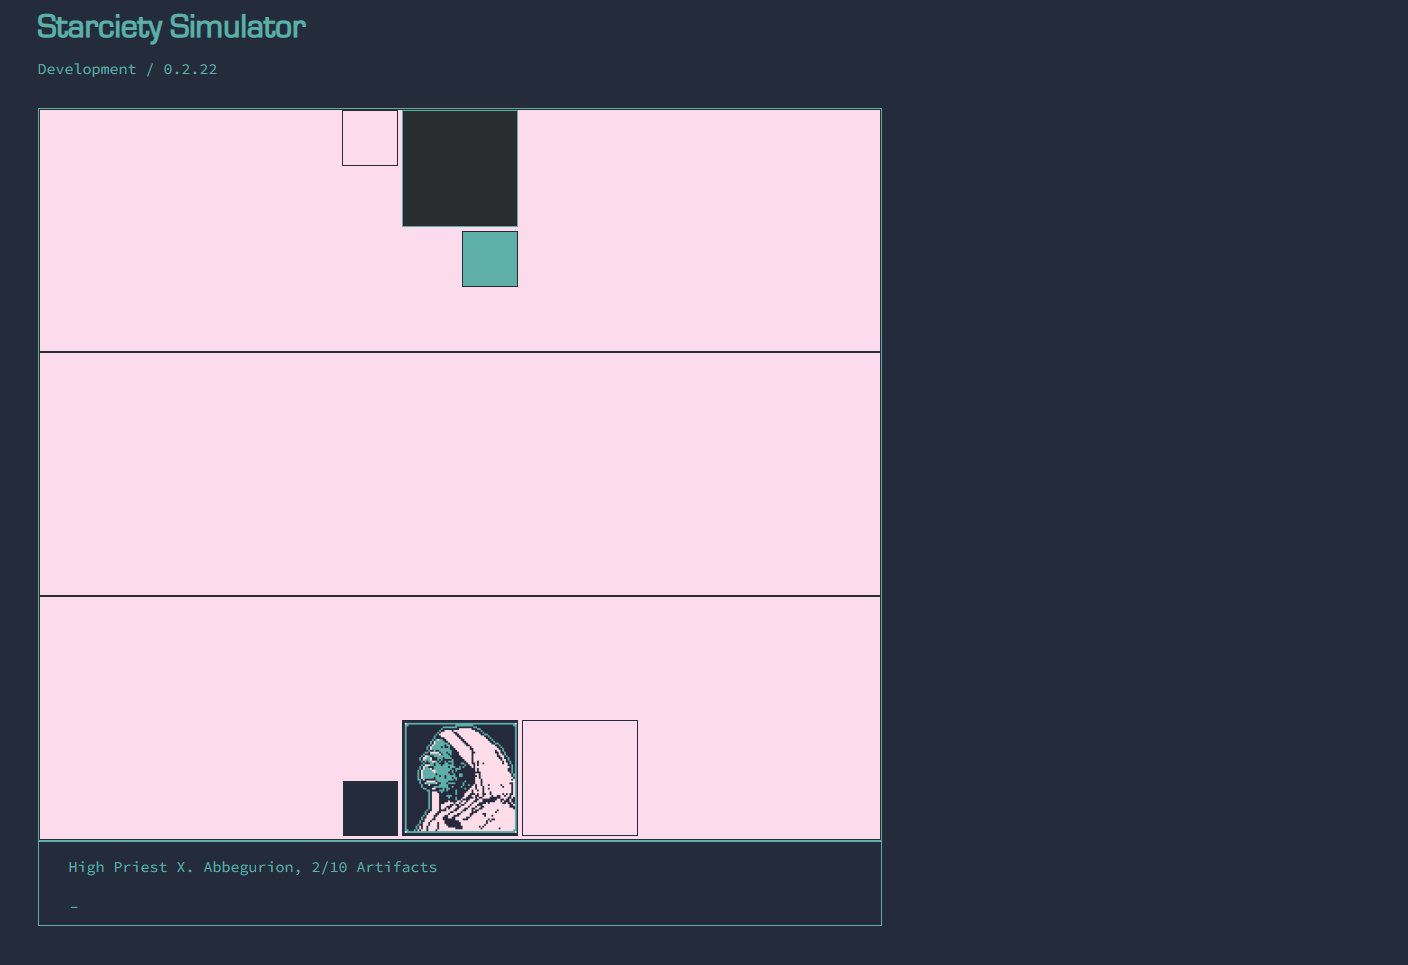
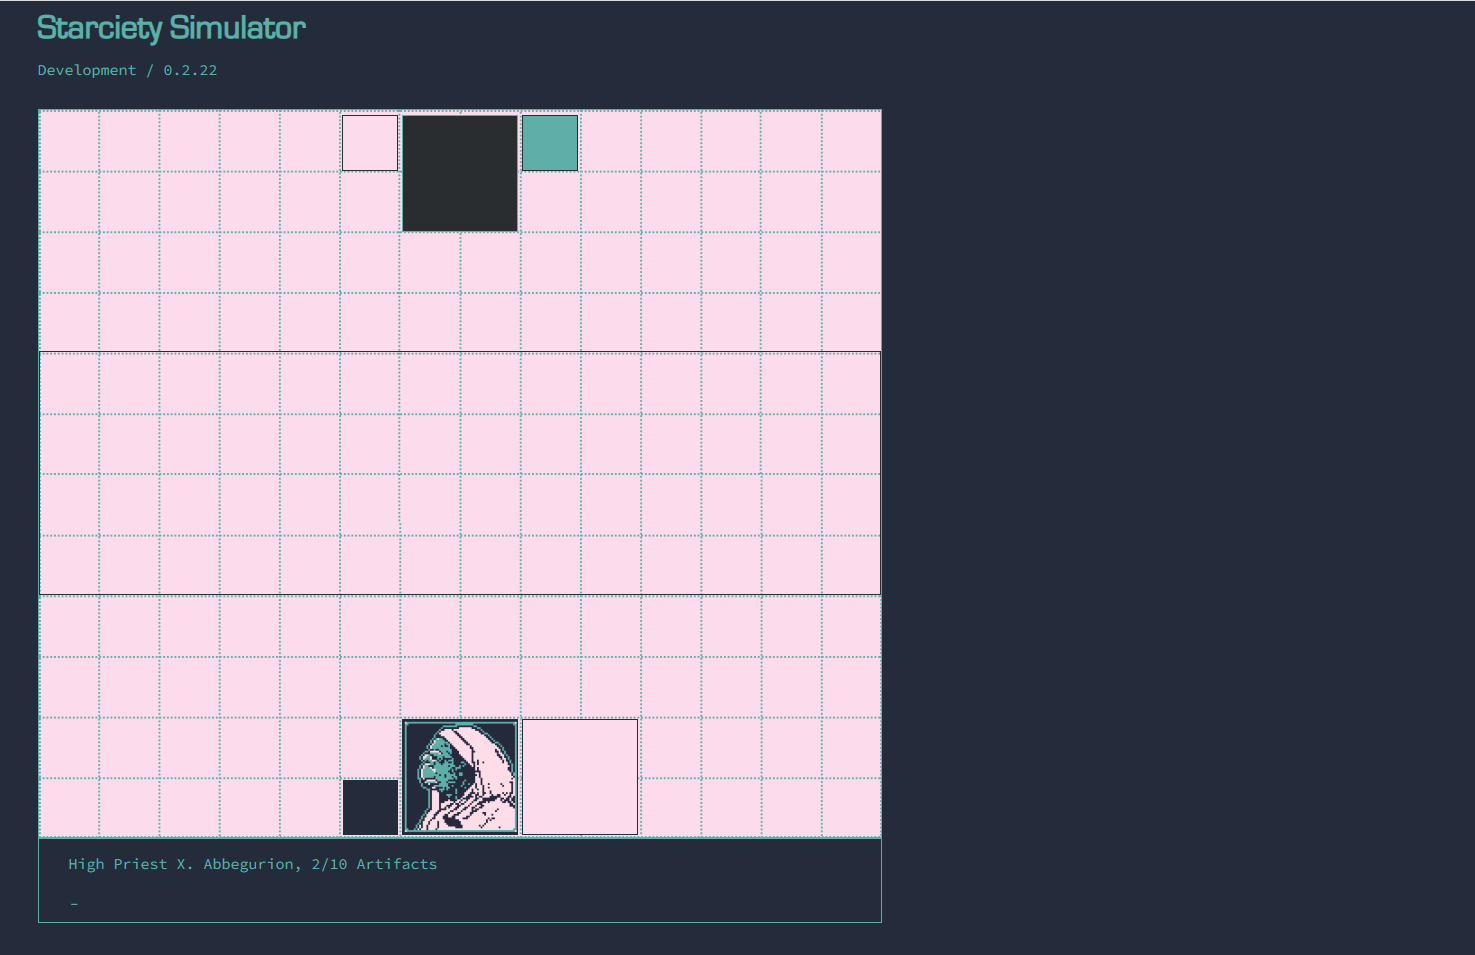
ul background-grud.png

diff --git a/public/style.css b/public/style.css
@@ -37,13 +37,13 @@ p {
 
 #canvas {
 	display: grid;
-	background-image: url('assets/background-grid960x640.png');
+	background-image: url('background-grid.png');
 	background-size: 100%;
 	margin: 2rem;
 	margin-bottom: 0;
-	background-size: auto;
+	background-size: 100% 100%;
 	background-repeat: no-repeat;
-	background-color: #fcdcec;
+	/*background-color: #fcdcec;*/
 	border: 1px solid #5DAFA7;;
 	padding: 0;
 }
@@ -51,7 +51,6 @@ p {
 #playerbox1 {
 	align-self: end;
 	height: 258px;
-	border: 1px solid #292D30;
 }
 
 #thealley {
@@ -63,7 +62,6 @@ p {
 #playerbox2 {
 	align-self: start;
 	height: 258px;
-	border: 1px solid #292D30;
 }
 
 #card, #card2, #card3, #card4, #card5, #card6 {
